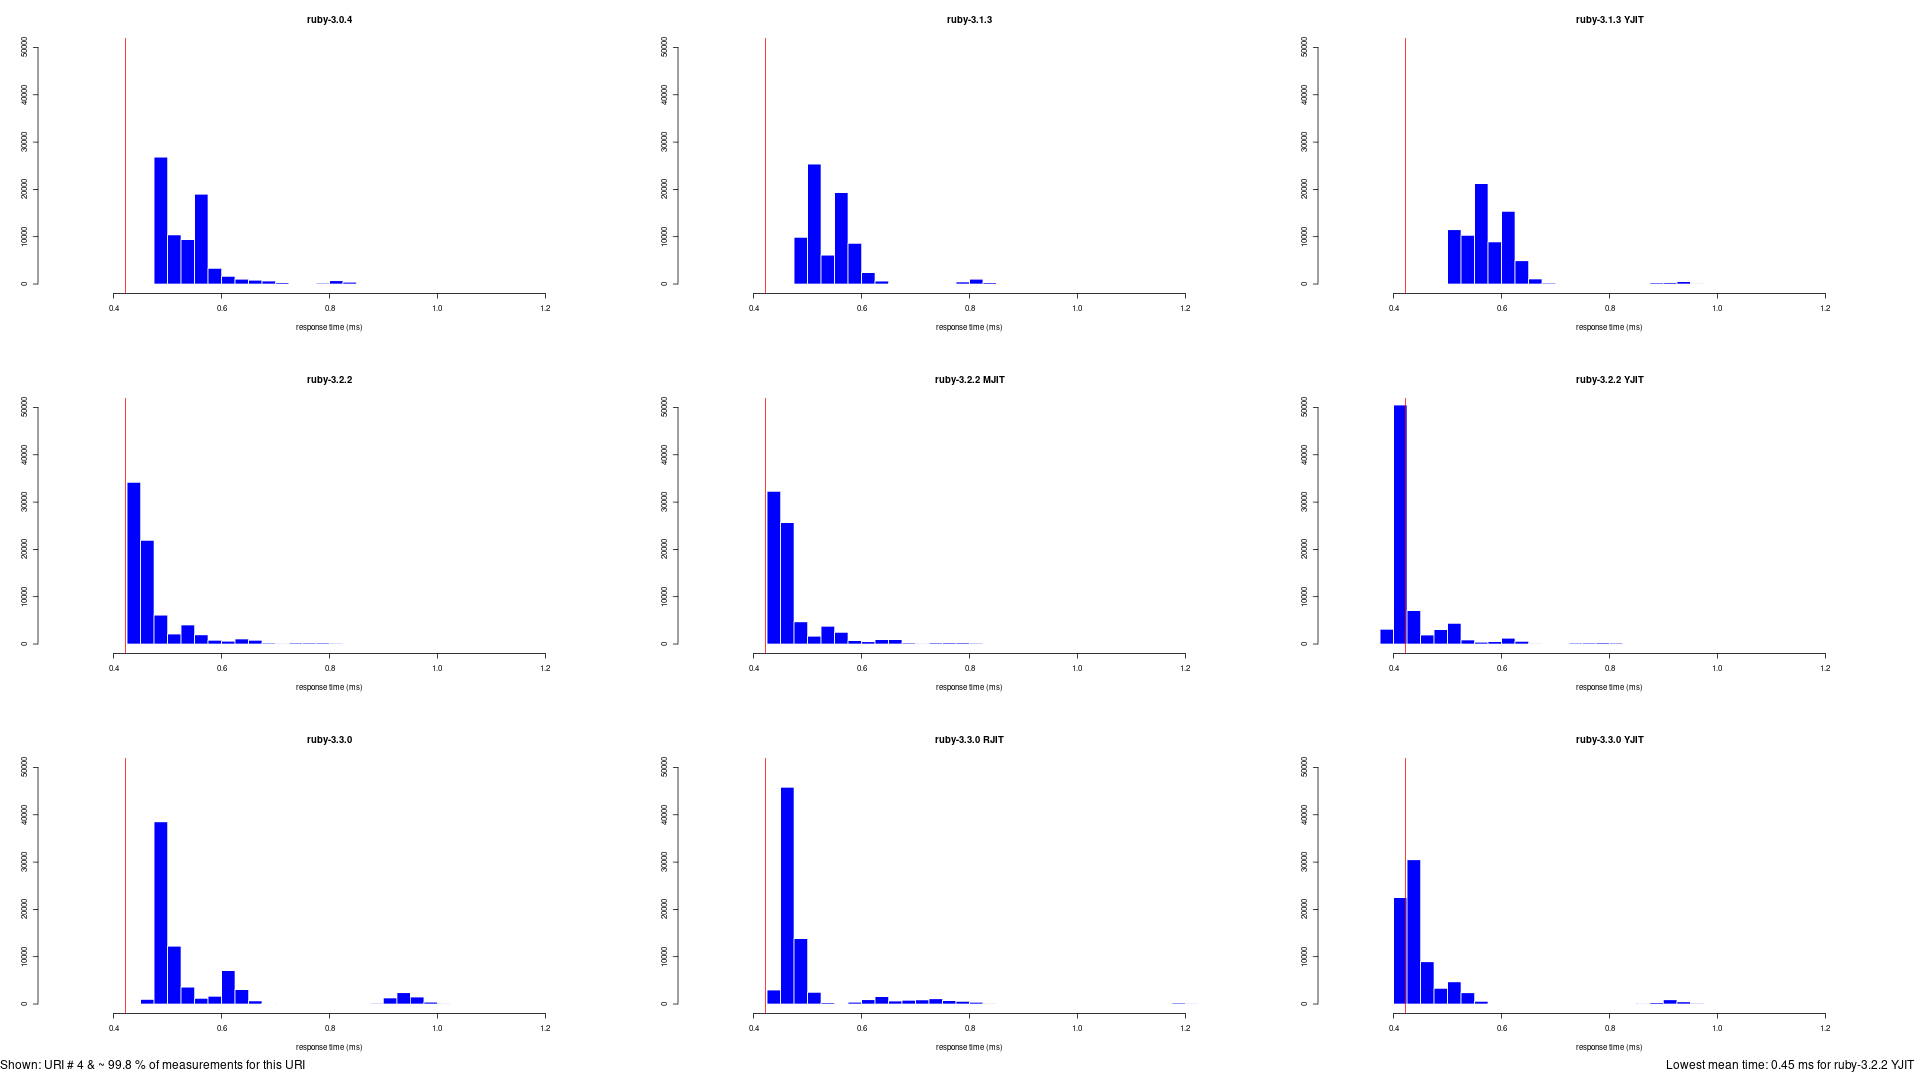
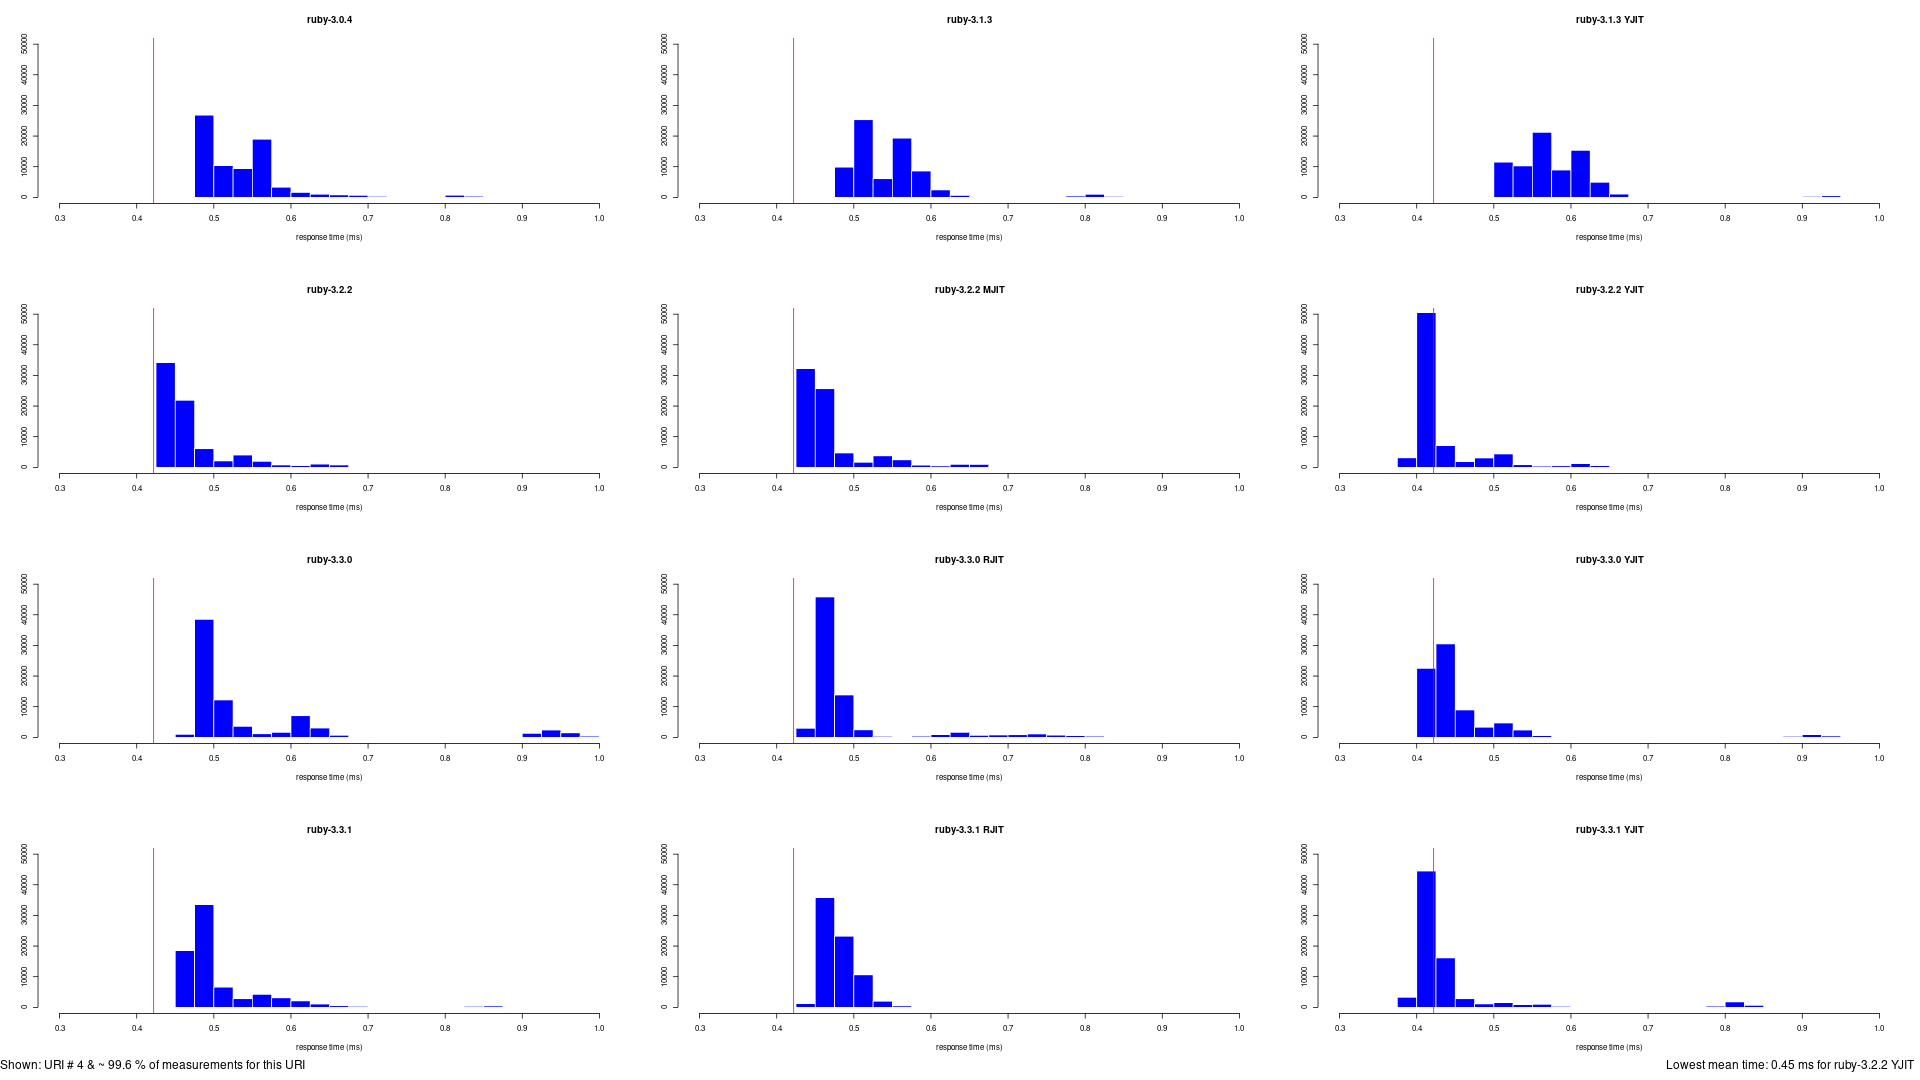
Updated results for Roda app: added Ruby 3.3.1: no more memory leaks!

diff --git a/data/rodauth/README.md b/data/rodauth/README.md
@@ -14,25 +14,28 @@ Five url's were included in the test:
 5. index-page with bad cookie (cyan)
 
 ## System
-OS: Linux 5.15.0-91-generic #101-Ubuntu SMP Tue Nov 14 13:30:08 UTC 2023 x86_64 GNU/Linux  
+OS: Linux 5.15.0-105-generic #115-Ubuntu SMP Mon Apr 15 09:52:04 UTC 2024 x86_64 GNU/Linux  
 CPU: AuthenticAMD AMD Ryzen 7 5800X 8-Core Processor  
 
 ## Tested Rubies
 | Ruby                      | JIT  | Mem start |   Mem end |   Runtime |      Mean |    Median |   Std.Dev |     Slow |   Errors |        N |  GC runs |
 | ------------------------- | ---- | --------: | --------: | --------: | --------: | --------: | --------: |--------: | -------: | -------: | -------: |
-| ruby-3.0.4                |      |      34Mb |      45Mb |      141s |    0.56ms |    0.55ms |    0.14ms |      184 |        0 |   750000 |       48 |
-| ruby-3.1.3                |      |      37Mb |      46Mb |      153s |     0.6ms |    0.56ms |    0.49ms |     3710 |        0 |   750000 |      983 |
-| ruby-3.1.3                | YJIT |      47Mb |      61Mb |      154s |    0.61ms |    0.59ms |    0.18ms |      253 |        0 |   750000 |       49 |
-| ruby-3.2.2                |      |      37Mb |      51Mb |      124s |    0.49ms |    0.47ms |    0.12ms |       20 |        0 |   750000 |       19 |
-| ruby-3.2.2                | MJIT |      37Mb |      51Mb |      125s |    0.49ms |    0.47ms |    0.12ms |       28 |        0 |   750000 |       19 |
-| ruby-3.2.2                | YJIT |      38Mb |      57Mb |      113s |    0.45ms |    0.42ms |    0.16ms |       43 |        0 |   750000 |       22 |
-| ruby-3.3.0                |      |      41Mb |     133Mb |      138s |    0.55ms |    0.53ms |    0.13ms |        4 |        0 |   750000 |        1 |
-| ruby-3.3.0                | RJIT |      82Mb |     295Mb |      142s |    0.55ms |    0.49ms |     2.9ms |     5233 |        0 |   750000 |        2 |
-| ruby-3.3.0                | YJIT |      42Mb |     139Mb |      119s |    0.48ms |    0.46ms |    0.18ms |       16 |        0 |   750000 |        1 |
+| ruby-3.0.4                |      |      34Mb |      45Mb |      141s |    0.56ms |    0.55ms |    0.14ms |      354 |        0 |   750000 |       48 |
+| ruby-3.1.3                |      |      37Mb |      46Mb |      153s |     0.6ms |    0.56ms |    0.49ms |     5176 |        0 |   750000 |      983 |
+| ruby-3.1.3                | YJIT |      47Mb |      61Mb |      154s |    0.61ms |    0.59ms |    0.18ms |      417 |        0 |   750000 |       49 |
+| ruby-3.2.2                |      |      37Mb |      51Mb |      124s |    0.49ms |    0.47ms |    0.12ms |       99 |        0 |   750000 |       19 |
+| ruby-3.2.2                | MJIT |      37Mb |      51Mb |      125s |    0.49ms |    0.47ms |    0.12ms |       93 |        0 |   750000 |       19 |
+| ruby-3.2.2                | YJIT |      38Mb |      57Mb |      113s |    0.45ms |    0.42ms |    0.16ms |      147 |        0 |   750000 |       22 |
+| ruby-3.3.0                |      |      41Mb |     133Mb |      138s |    0.55ms |    0.53ms |    0.13ms |        9 |        0 |   750000 |        1 |
+| ruby-3.3.0                | RJIT |      82Mb |     295Mb |      142s |    0.55ms |    0.49ms |     2.9ms |     5302 |        0 |   750000 |        2 |
+| ruby-3.3.0                | YJIT |      42Mb |     139Mb |      119s |    0.48ms |    0.46ms |    0.18ms |       27 |        0 |   750000 |        1 |
+| ruby-3.3.1                |      |      39Mb |      46Mb |      136s |    0.54ms |    0.52ms |    0.12ms |        9 |        0 |   750000 |        4 |
+| ruby-3.3.1                | RJIT |      74Mb |     195Mb |      143s |    0.56ms |    0.49ms |    2.91ms |     4351 |        0 |   750000 |        2 |
+| ruby-3.3.1                | YJIT |      40Mb |      52Mb |      117s |    0.46ms |    0.44ms |    0.18ms |       25 |        0 |   750000 |        1 |
 
 ## Winners
 
-- Ruby with lowest __slow__ response-count (> 5ms): __ruby-3.3.0__ (4x)
+- Ruby with lowest __slow__ response-count (> 3ms): __ruby-3.3.0__ (9x)
 - Ruby with lowest __median__* response-time: __ruby-3.2.2 YJIT__ (0.42ms)
 - Ruby with lowest __standard deviation__ response-time: __ruby-3.2.2__ (0.12ms)
 - Ruby with lowest __mean__* response-time: __ruby-3.2.2 YJIT__ (0.45ms)
@@ -82,6 +85,15 @@ Vertical blue lines near the X-axis indicate major garbage collection runs (of R
 ## Response-times for: ruby-3.3.0 YJIT
 ![Response-times for: ruby-3.3.0 YJIT](/data/rodauth/plots/rodauth_1_ruby-3.3.0%20YJIT.png "Response-times for: ruby-3.3.0 YJIT")
 
+## Response-times for: ruby-3.3.1
+![Response-times for: ruby-3.3.1](/data/rodauth/plots/rodauth_1_ruby-3.3.1.png "Response-times for: ruby-3.3.1")
+
+## Response-times for: ruby-3.3.1 RJIT
+![Response-times for: ruby-3.3.1 RJIT](/data/rodauth/plots/rodauth_1_ruby-3.3.1%20RJIT.png "Response-times for: ruby-3.3.1 RJIT")
+
+## Response-times for: ruby-3.3.1 YJIT
+![Response-times for: ruby-3.3.1 YJIT](/data/rodauth/plots/rodauth_1_ruby-3.3.1%20YJIT.png "Response-times for: ruby-3.3.1 YJIT")
+
 
 ## Detailed scatter-plots
 Same as above but focussing on the most ocurring response times. GC runs are not shown.
@@ -111,4 +123,13 @@ Same as above but focussing on the most ocurring response times. GC runs are not
 
 ## Detailed response-times for: ruby-3.3.0 YJIT
 ![Detailed response-times for: ruby-3.3.0 YJIT](/data/rodauth/plots/rodauth_2_ruby-3.3.0%20YJIT.png "Detailed response-times for: ruby-3.3.0 YJIT")
+
+## Detailed response-times for: ruby-3.3.1
+![Detailed response-times for: ruby-3.3.1](/data/rodauth/plots/rodauth_2_ruby-3.3.1.png "Detailed response-times for: ruby-3.3.1")
+
+## Detailed response-times for: ruby-3.3.1 RJIT
+![Detailed response-times for: ruby-3.3.1 RJIT](/data/rodauth/plots/rodauth_2_ruby-3.3.1%20RJIT.png "Detailed response-times for: ruby-3.3.1 RJIT")
+
+## Detailed response-times for: ruby-3.3.1 YJIT
+![Detailed response-times for: ruby-3.3.1 YJIT](/data/rodauth/plots/rodauth_2_ruby-3.3.1%20YJIT.png "Detailed response-times for: ruby-3.3.1 YJIT")
 
